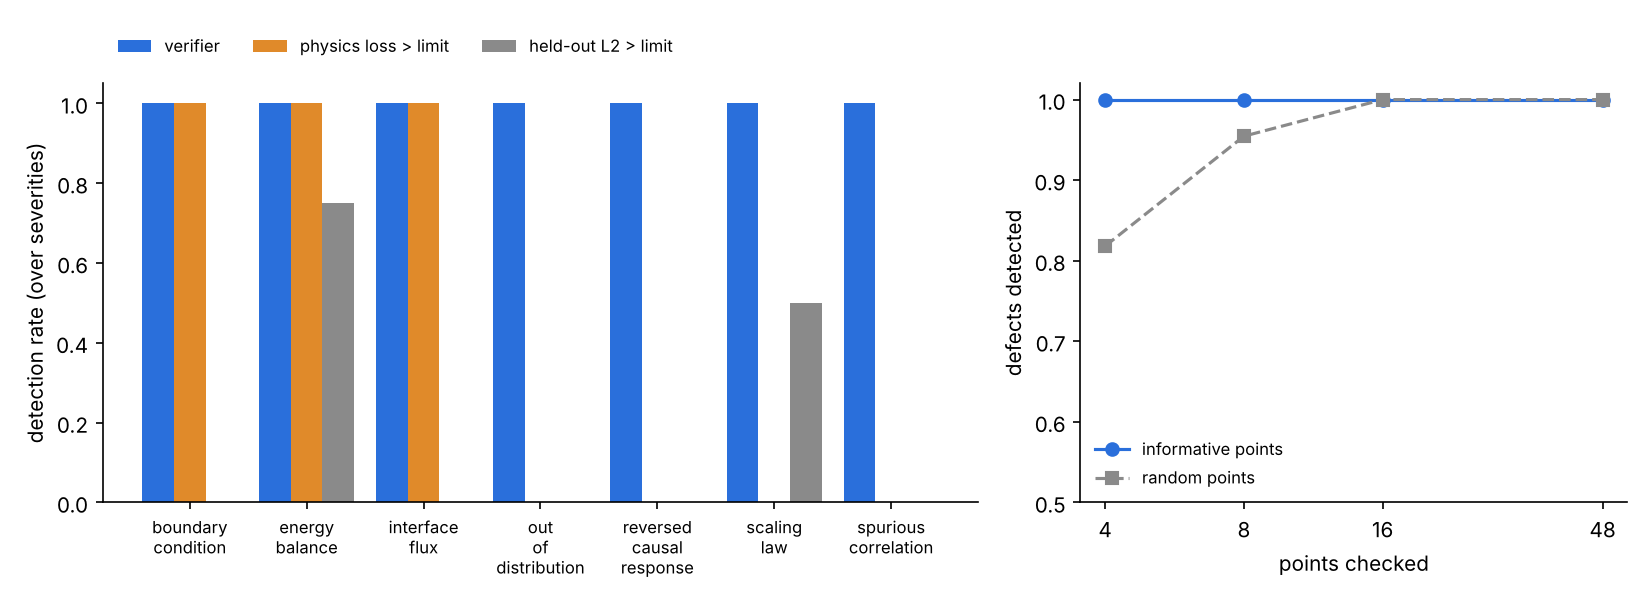
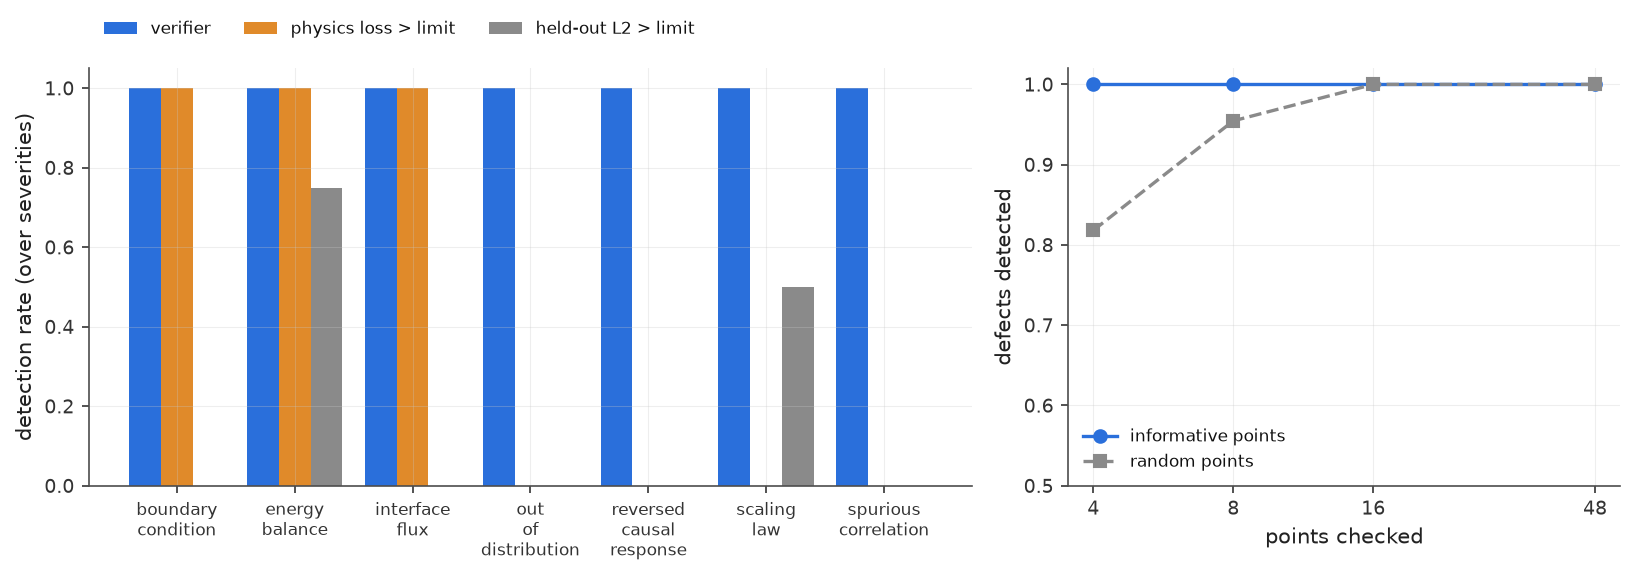
Tema único nos primeiros oito exemplos (#918)
Oito scripts que desenhavam com o padrão do matplotlib passam a chamar
use_theme("report") onde importam o pyplot — depois do bloco de imports no
módulo, ou dentro do try que importava o matplotlib, para a chamada rodar
exatamente onde o matplotlib rodou.

Os quatro exemplos de eletrodinâmica também perdem o
plt.rcParams.update({"font.size": 10, "axes.spines.top": False,
"axes.spines.right": False}): o tema já fixa esses três valores, e manter a
linha deixava dois lugares para editar a mesma coisa.

As figuras que o repositório versiona foram regeradas com o tema; os JSON de
resultado ficaram como estavam (só mudam tempo e data).

diff --git a/examples/electrodynamics/20_spm_skew_3d.py b/examples/electrodynamics/20_spm_skew_3d.py
@@ -70,9 +70,11 @@ def main() -> dict:
 def figure(out: dict) -> None:
     import matplotlib.pyplot as plt
 
+    from pinneapple_tools.visualization.style import use_theme
+    use_theme("report")   # one theme for every figure of the library (#918)
+
     colours = {"step2": "#2a78d6", "step3": "#eb6834", "continuous": "#1baf7a"}
     muted = "#52514e"
-    plt.rcParams.update({"font.size": 10, "axes.spines.top": False, "axes.spines.right": False})
     fig, ax = plt.subplots(1, 2, figsize=(12, 4.2), facecolor="#fcfcfb")
     rows = out["rows"]
     st = next(r for r in rows if r["kind"] == "straight")

diff --git a/examples/electrodynamics/22_spm_end_effects_3d.py b/examples/electrodynamics/22_spm_end_effects_3d.py
@@ -63,7 +63,9 @@ def main() -> dict:
 def figure(out: dict) -> None:
     import matplotlib.pyplot as plt
 
-    plt.rcParams.update({"font.size": 10, "axes.spines.top": False, "axes.spines.right": False})
+    from pinneapple_tools.visualization.style import use_theme
+    use_theme("report")   # one theme for every figure of the library (#918)
+
     colours = {0.0: "#2a78d6", 0.01: "#eb6834"}
     fig, ax = plt.subplots(1, 2, figsize=(11, 4.2), facecolor="#fcfcfb")
     ld = [r["L_over_D"] for r in out["rows"]]

diff --git a/examples/electrodynamics/21_team7.py b/examples/electrodynamics/21_team7.py
@@ -60,7 +60,9 @@ def main() -> dict:
 def figure(out: dict) -> None:
     import matplotlib.pyplot as plt
 
-    plt.rcParams.update({"font.size": 10, "axes.spines.top": False, "axes.spines.right": False})
+    from pinneapple_tools.visualization.style import use_theme
+    use_theme("report")   # one theme for every figure of the library (#918)
+
     blue, orange, muted = "#2a78d6", "#eb6834", "#52514e"
     fin = out["levels"][-1]["f"]
     fig, ax = plt.subplots(2, 2, figsize=(12, 8), facecolor="#fcfcfb")

diff --git a/examples/electrodynamics/23_magnet_eddy_segmentation.py b/examples/electrodynamics/23_magnet_eddy_segmentation.py
@@ -68,7 +68,9 @@ def main() -> dict:
 def figure(out: dict) -> None:
     import matplotlib.pyplot as plt
 
-    plt.rcParams.update({"font.size": 10, "axes.spines.top": False, "axes.spines.right": False})
+    from pinneapple_tools.visualization.style import use_theme
+    use_theme("report")   # one theme for every figure of the library (#918)
+
     colours = {1e3: "#2a78d6", 1e4: "#eb6834", 5e4: "#1baf7a"}
     muted = "#52514e"
     fig, ax = plt.subplots(1, 2, figsize=(12, 4.4), facecolor="#fcfcfb")

diff --git a/examples/physics_query/run_demo.py b/examples/physics_query/run_demo.py
@@ -42,6 +42,9 @@ def figure(r: dict, path: str) -> str:
     import matplotlib
     matplotlib.use("Agg")
     import matplotlib.pyplot as plt
+
+    from pinneapple_tools.visualization.style import use_theme
+    use_theme("report")   # one theme for every figure of the library (#918)
     colors = {"cached": "#2a6fdb", "superposition": "#1f9e77", "bound": "#e08a2a", "condensed": "#7a5bd6"}
     fig, ax = plt.subplots(figsize=(7.5, 4.2))
     for label, ph in r["phases"].items():

diff --git a/examples/physics_learning_verification/run_study.py b/examples/physics_learning_verification/run_study.py
@@ -80,6 +80,9 @@ def figure_detection(det, path):
     import matplotlib
     matplotlib.use("Agg")
     import matplotlib.pyplot as plt
+
+    from pinneapple_tools.visualization.style import use_theme
+    use_theme("report")   # one theme for every figure of the library (#918)
     rows = det["rows"]
     defects = sorted({r["defect"] for r in rows if r["group"] == "defect"})
     fig, (a, b) = plt.subplots(1, 2, figsize=(11, 4.0), gridspec_kw={"width_ratios": [1.6, 1]})

diff --git a/examples/first_example/first_example.py b/examples/first_example/first_example.py
@@ -8,6 +8,9 @@ import matplotlib.pyplot as plt
 import numpy as np
 
 import pinneapple as pp
+from pinneapple_tools.visualization.style import use_theme
+
+use_theme("report")   # one theme for every figure of the library (#918)
 
 prob = pp.PhysicalProblem.from_preset("burgers_1d", nu=0.01 / np.pi)   # u_t + u u_x = nu u_xx, x in [-1, 1]
 pinn = pp.solve(prob, "pinn", epochs=1500, seed=0)                     # train the network (about 45 s)

diff --git a/examples/pinn_solver/03_symbolic_pde_hard_bc.py b/examples/pinn_solver/03_symbolic_pde_hard_bc.py
@@ -54,6 +54,9 @@ try:
     import matplotlib
     matplotlib.use("Agg")   # non-interactive backend (works everywhere)
     import matplotlib.pyplot as plt
+
+    from pinneapple_tools.visualization.style import use_theme
+    use_theme("report")   # one theme for every figure of the library (#918)
     HAS_MPL = True
 except ImportError:
     HAS_MPL = False
